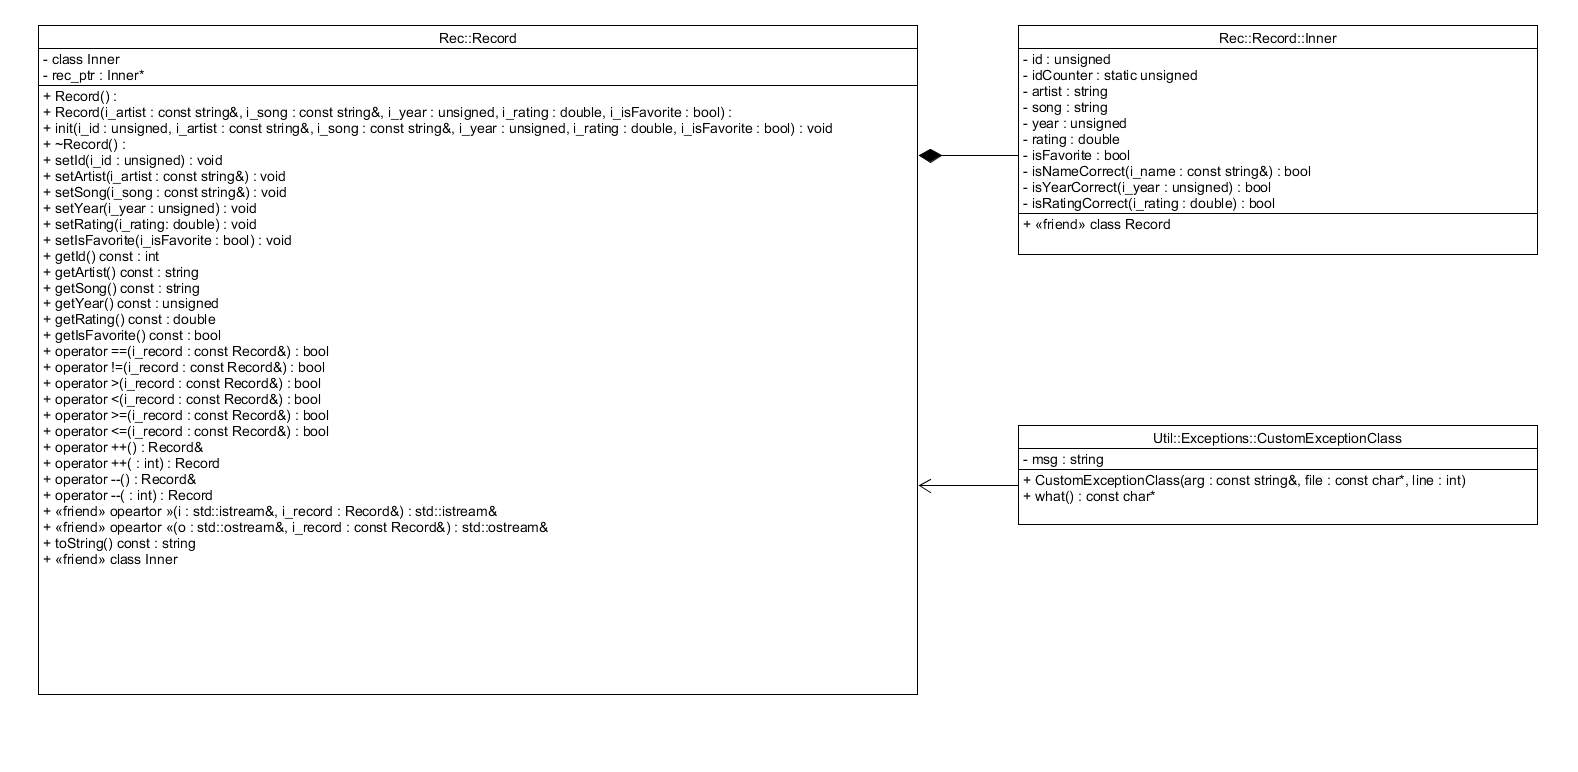
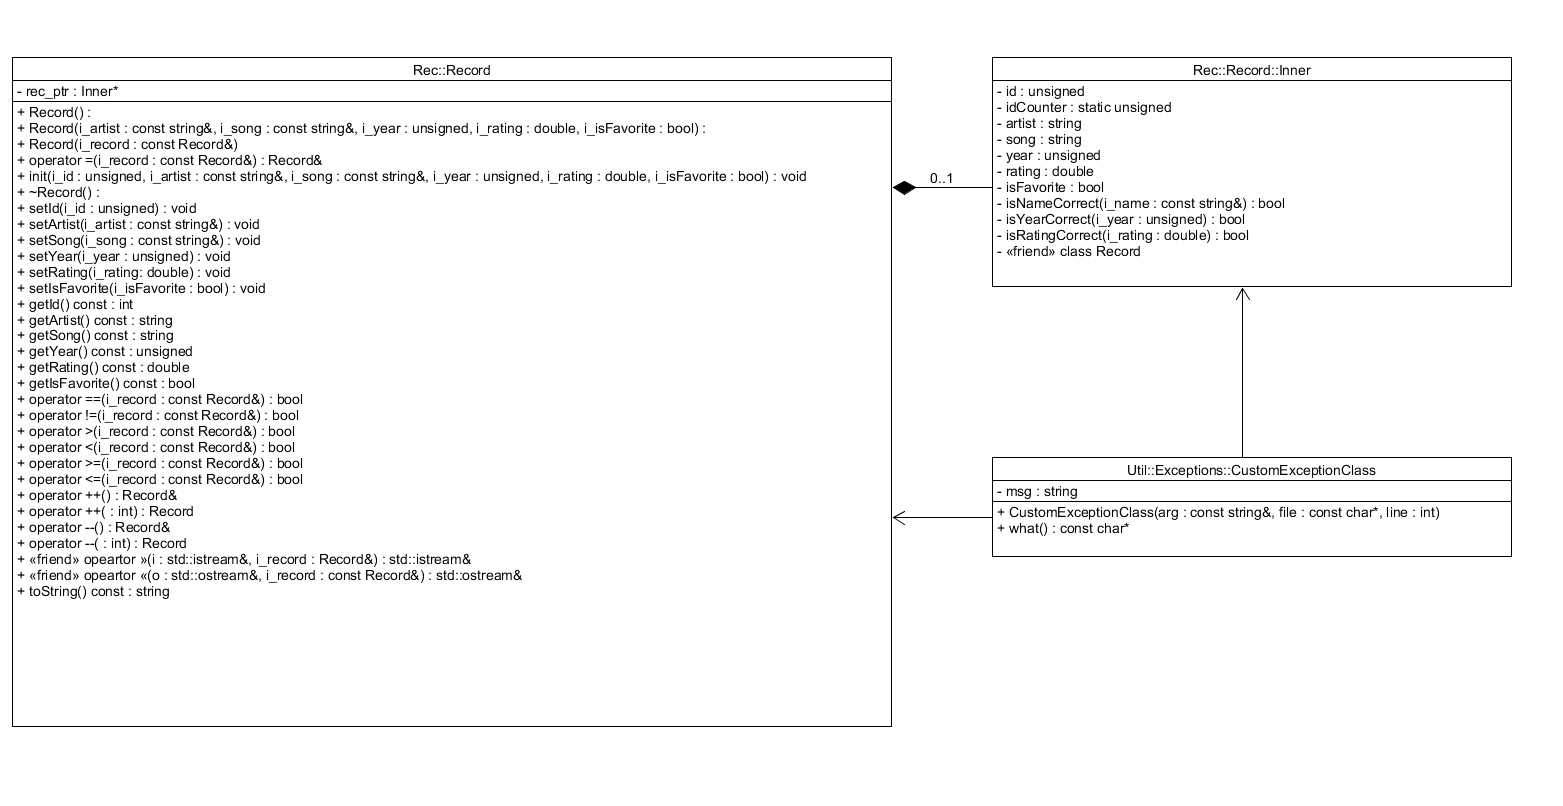
Minor changes

diff --git a/5 Savaitė/Record.cpp b/5 Savaitė/Record.cpp
@@ -23,36 +23,10 @@ namespace Rec{
             bool isYearCorrect(unsigned);
             bool isRatingCorrect(double);
 
-        public:
             friend class Record;
     };
 
     unsigned Record::Inner::idCounter = 0;
-
-    Record::Record(){
-        rec_ptr = NULL;
-        /*rec_ptr = new Record::Record_inner();
-        init(++Record::Record_inner::idCounter, DEFAULT_NAME, DEFAULT_NAME, DEFAULT_YEAR, DEFAULT_RATING, DEFAULT_ISFAVORITE);*/
-    }
-
-    Record::Record(const std::string &i_artist, const std::string &i_song, unsigned i_year, double i_rating, bool i_isFavorite){
-        rec_ptr = new Record::Inner();
-        init(++Record::Inner::idCounter, i_artist, i_song, i_year, i_rating, i_isFavorite);
-    }
-
-    void Record::init(unsigned i_id, const std::string &i_artist, const std::string &i_song, unsigned i_year, double i_rating, bool i_isFavorite){
-        setId(i_id);
-        setArtist(i_artist);
-        setSong(i_song);
-        setYear(i_year);
-        setRating(i_rating);
-        setIsFavorite(i_isFavorite);
-    }
-
-    Record::~Record(){
-        --Record::Inner::idCounter;
-        delete rec_ptr;
-    }
 
     bool Record::Inner::isNameCorrect(const std::string &i_name){
         if(i_name.length() >= 2)
@@ -78,44 +52,104 @@ namespace Rec{
         }
     }
 
+    Record::Record(){
+        rec_ptr = NULL;
+        /*rec_ptr = new Inner();
+        init(++Inner::idCounter, DEFAULT_NAME, DEFAULT_NAME, DEFAULT_YEAR, DEFAULT_RATING, DEFAULT_ISFAVORITE);*/
+    }
+
+    Record::Record(const std::string &i_artist, const std::string &i_song, unsigned i_year, double i_rating, bool i_isFavorite){
+        rec_ptr = new Inner();
+        init(++Inner::idCounter, i_artist, i_song, i_year, i_rating, i_isFavorite);
+    }
+
+    Record::Record(const Record &i_record){
+        Inner *temp = new Inner();
+
+        temp->id = i_record.getId();
+        temp->artist = i_record.getArtist();
+        temp->song = i_record.getSong();
+        temp->year = i_record.getYear();
+        temp->rating = i_record.getRating();
+        temp->isFavorite = i_record.getIsFavorite();
+
+        this->rec_ptr = temp;
+    }
+
+    Record& Record::operator =(const Record &i_record){
+        if(rec_ptr == NULL || i_record.rec_ptr == NULL)
+            throw CustomException(OBJECT_NOT_INITIALIZED_EXCEPTION);
+
+        if(this->rec_ptr == i_record.rec_ptr)
+            return *this;
+
+        Inner *temp = new Inner();
+
+        temp->id = i_record.getId();
+        temp->artist = i_record.getArtist();
+        temp->song = i_record.getSong();
+        temp->year = i_record.getYear();
+        temp->rating = i_record.getRating();
+        temp->isFavorite = i_record.getIsFavorite();
+
+        delete this->rec_ptr;
+        this->rec_ptr = temp;
+
+        return *this;
+    }
+
+    void Record::init(unsigned i_id, const std::string &i_artist, const std::string &i_song, unsigned i_year, double i_rating, bool i_isFavorite){
+        setId(i_id);
+        setArtist(i_artist);
+        setSong(i_song);
+        setYear(i_year);
+        setRating(i_rating);
+        setIsFavorite(i_isFavorite);
+    }
+
+    Record::~Record(){
+        --Inner::idCounter;
+        delete rec_ptr;
+    }
+
     void Record::setId(unsigned i_id){
         if(rec_ptr == NULL)
-            rec_ptr = new Record::Inner();
+            rec_ptr = new Inner();
 
         rec_ptr->id = i_id;
     }
 
     void Record::setArtist(const std::string &i_artist){
         if(rec_ptr == NULL)
-            rec_ptr = new Record::Inner();
+            rec_ptr = new Inner();
 
         rec_ptr->artist = rec_ptr->isNameCorrect(i_artist) ? i_artist : DEFAULT_NAME;
     }
 
     void Record::setSong(const std::string &i_song){
         if(rec_ptr == NULL)
-            rec_ptr = new Record::Inner();
+            rec_ptr = new Inner();
 
         rec_ptr->song = rec_ptr->isNameCorrect(i_song) ? i_song : DEFAULT_NAME;
     }
 
     void Record::setYear(unsigned i_year){
         if(rec_ptr == NULL)
-            rec_ptr = new Record::Inner();
+            rec_ptr = new Inner();
 
         rec_ptr->year = rec_ptr->isYearCorrect(i_year) ? i_year : DEFAULT_YEAR;
     }
 
     void Record::setRating(double i_rating){
         if(rec_ptr == NULL)
-            rec_ptr = new Record::Inner();
+            rec_ptr = new Inner();
 
         rec_ptr->rating = rec_ptr->isRatingCorrect(i_rating) ? i_rating : DEFAULT_RATING;
     }
 
     void Record::setIsFavorite(bool i_isFavorite){
         if(rec_ptr == NULL)
-            rec_ptr = new Record::Inner();
+            rec_ptr = new Inner();
 
         rec_ptr->isFavorite = i_isFavorite;
     }
@@ -163,6 +197,9 @@ namespace Rec{
     }
 
     bool Record::operator ==(const Record &i_record){
+        if(rec_ptr == NULL)
+            throw CustomException(OBJECT_NOT_INITIALIZED_EXCEPTION);
+
         return (this->getRating() == i_record.getRating());
     }
 
@@ -179,42 +216,52 @@ namespace Rec{
     }
 
     bool Record::operator >=(const Record &i_record){
+        if(rec_ptr == NULL)
+            throw CustomException(OBJECT_NOT_INITIALIZED_EXCEPTION);
+
         return (this->getRating() >= i_record.getRating());
     }
 
     bool Record::operator <=(const Record &i_record){
+        if(rec_ptr == NULL)
+            throw CustomException(OBJECT_NOT_INITIALIZED_EXCEPTION);
+
         return (this->getRating() <= i_record.getRating());
     }
 
     Record& Record::operator ++(){
+        if(rec_ptr == NULL)
+            throw CustomException(OBJECT_NOT_INITIALIZED_EXCEPTION);
+
         float temp_rating = this->getRating();
         this->setRating(++temp_rating);
         return *this;
     }
 
     Record Record::operator ++(int){
-        //Avoiding errors, since writing temp = *this causes them both to have the same implementation.
-        /*Record temp = *this;*/
-        Record temp;
-        temp.init(this->getId(), this->getArtist(), this->getSong(), this->getYear(), this->getRating(), this->getIsFavorite());
+        if(rec_ptr == NULL)
+            throw CustomException(OBJECT_NOT_INITIALIZED_EXCEPTION);
 
+        Record temp = *this;
         float temp_rating = this->getRating();
         this->setRating(++temp_rating);
         return temp;
     }
 
     Record& Record::operator --(){
+        if(rec_ptr == NULL)
+            throw CustomException(OBJECT_NOT_INITIALIZED_EXCEPTION);
+
         float temp_rating = this->getRating();
         this->setRating(--temp_rating);
         return *this;
     }
 
     Record Record::operator --(int){
-        //Avoiding errors, since writing temp = *this causes them both to have the same implementation.
-        /*Record temp = *this;*/
-        Record temp;
-        temp.init(this->getId(), this->getArtist(), this->getSong(), this->getYear(), this->getRating(), this->getIsFavorite());
+        if(rec_ptr == NULL)
+            throw CustomException(OBJECT_NOT_INITIALIZED_EXCEPTION);
 
+        Record temp = *this;
         float temp_rating = this->getRating();
         this->setRating(--temp_rating);
         return temp;

diff --git a/5 Savaitė/Record.h b/5 Savaitė/Record.h
@@ -13,6 +13,8 @@ namespace Rec{
         public:
             Record();
             Record(const std::string&, const std::string&, unsigned, double, bool);
+            Record(const Record&);
+            Record& operator =(const Record&);
             void init(unsigned, const std::string&, const std::string&, unsigned, double, bool);
             ~Record();
 
@@ -46,8 +48,6 @@ namespace Rec{
             friend std::ostream& operator <<(std::ostream&, const Record&);
 
             std::string toString() const;
-
-            /*friend class Record_inner;*/
     };
 }
 
